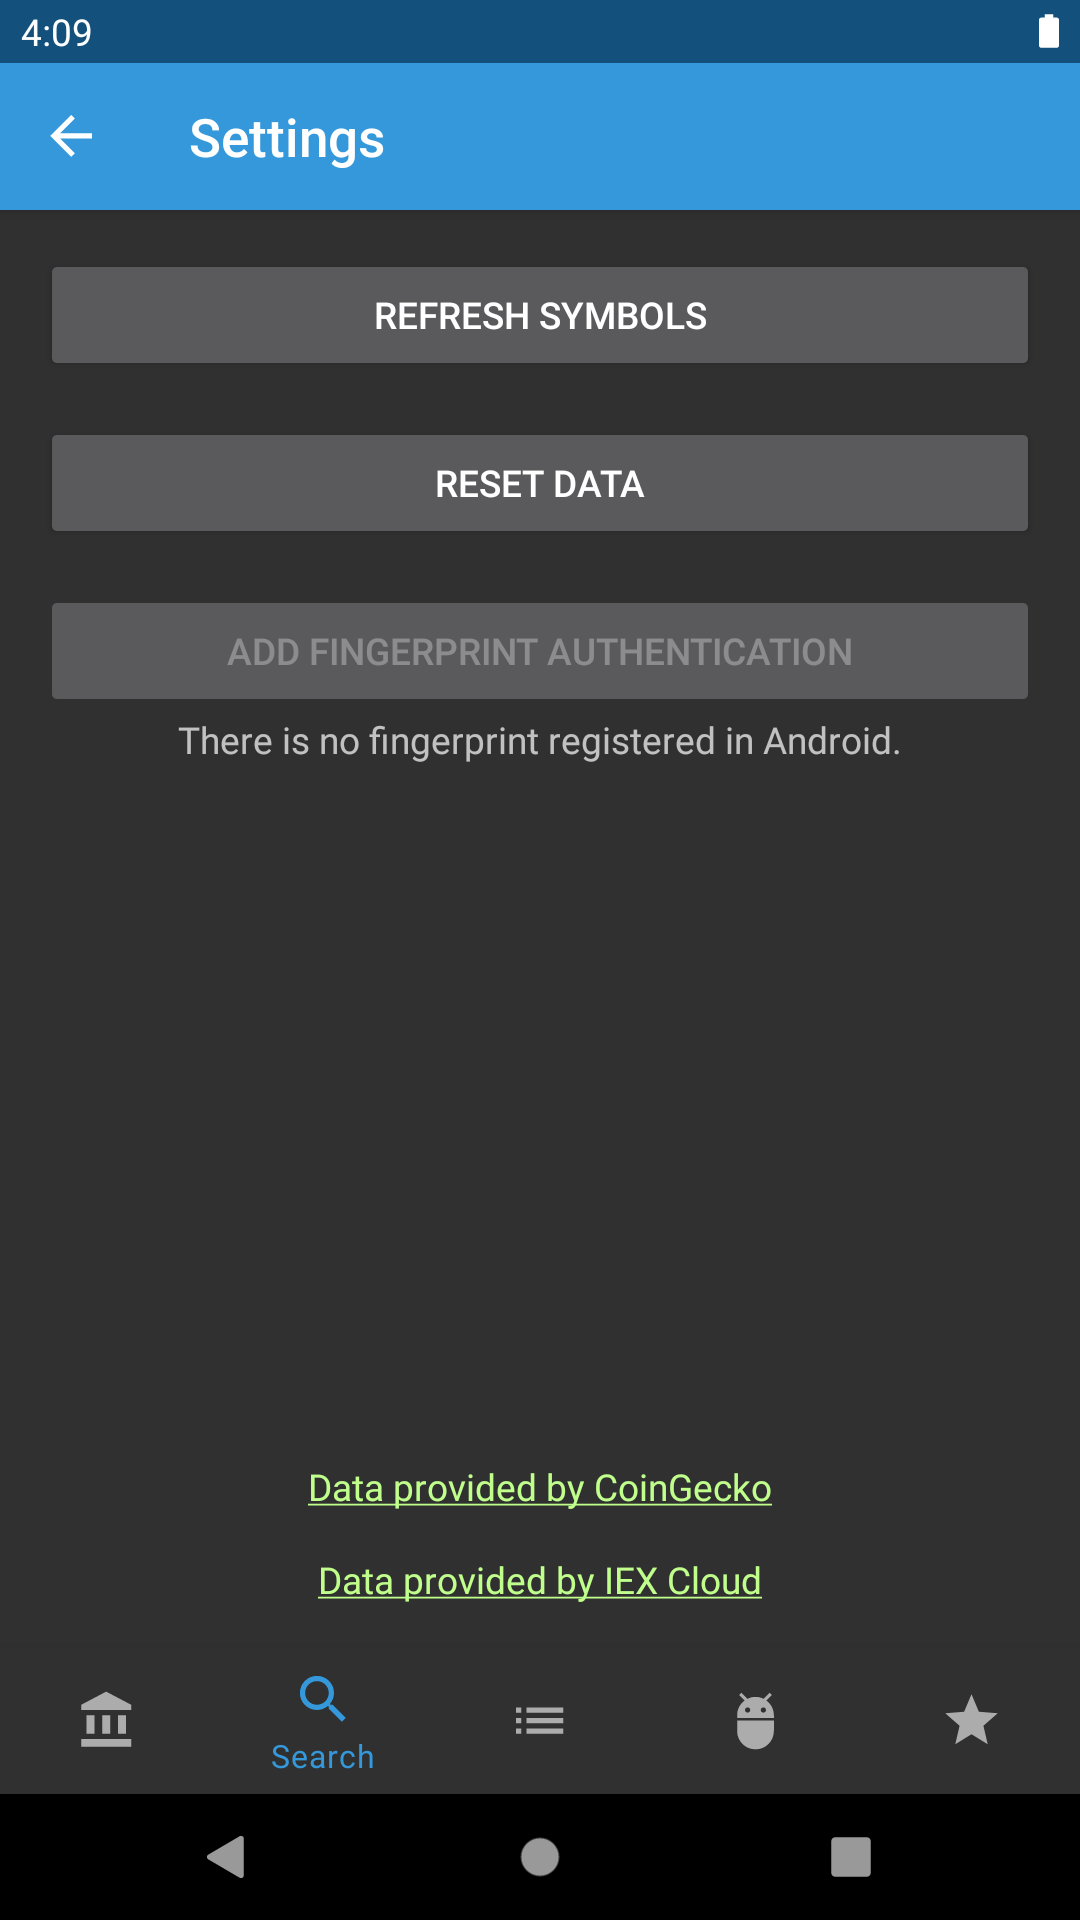
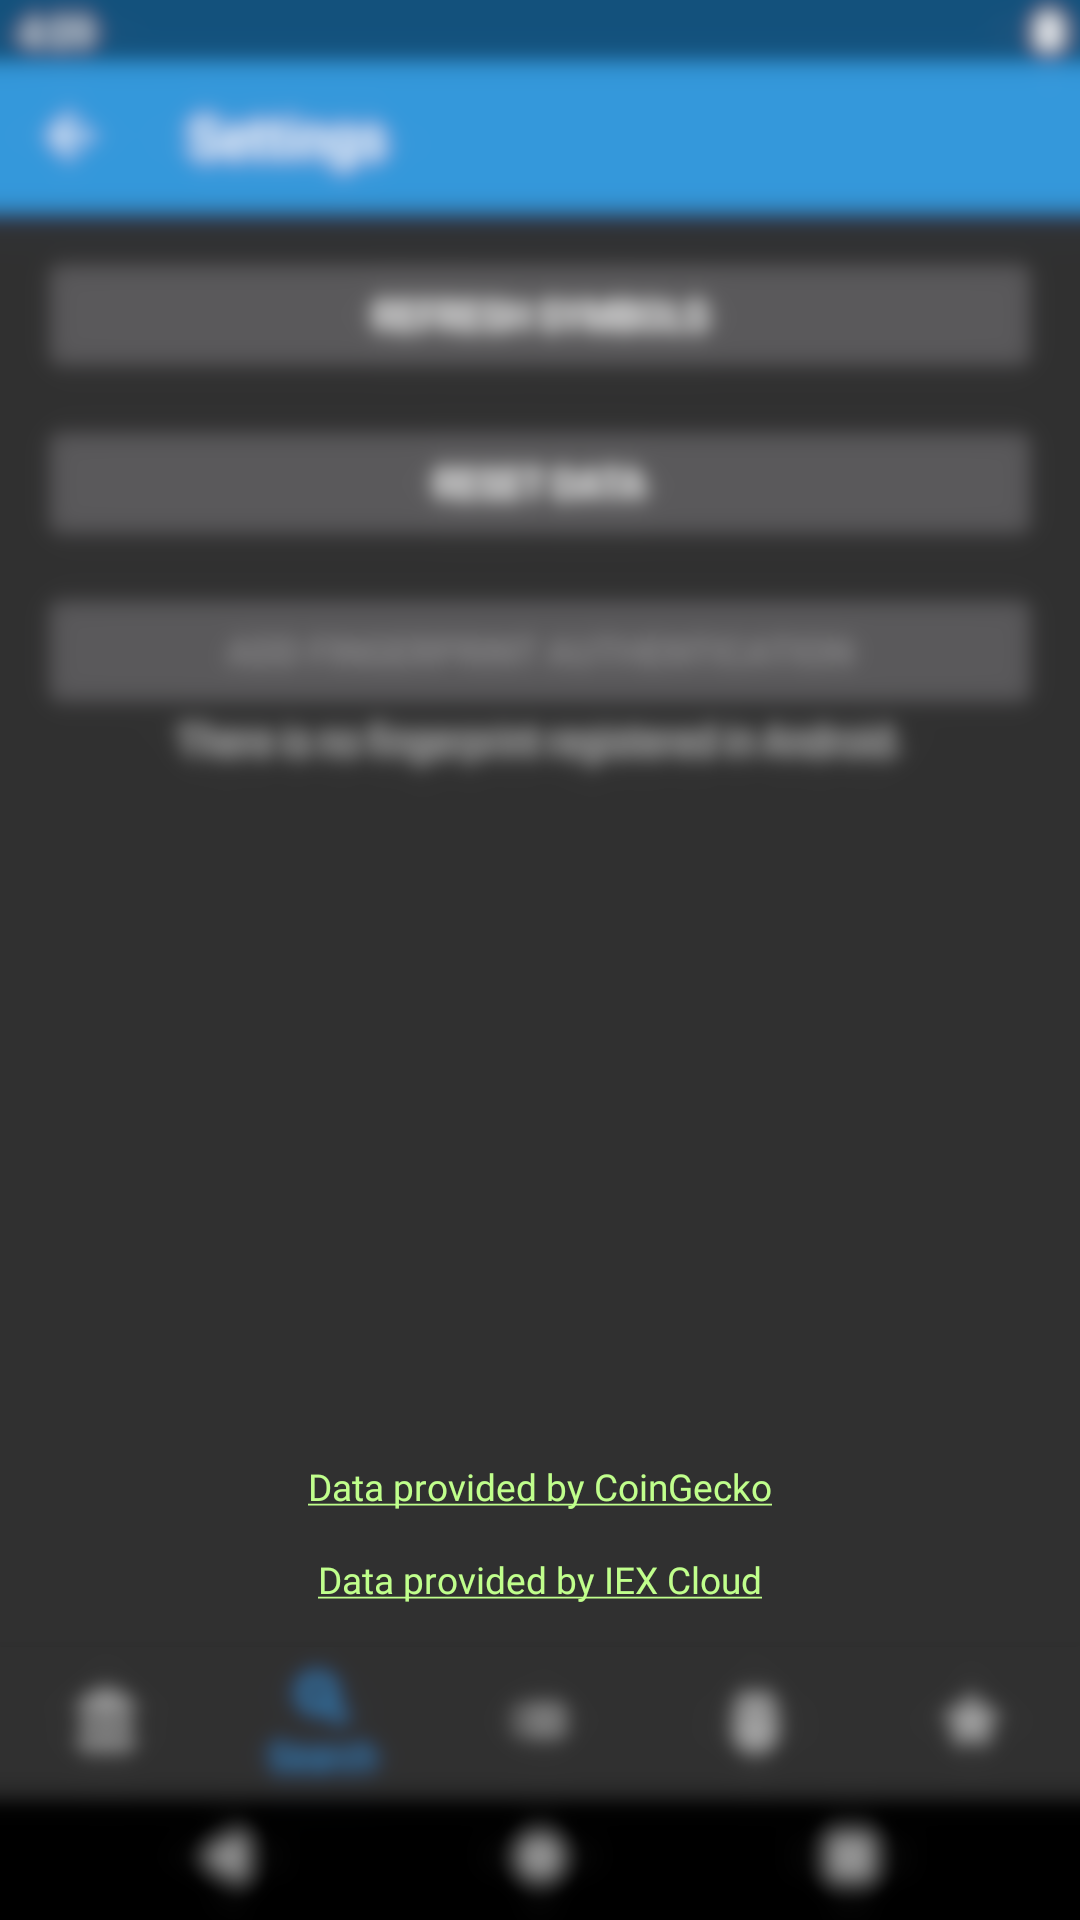
Blured settings images and minor changes

diff --git a/stock-simulator.tex b/stock-simulator.tex
@@ -141,6 +141,7 @@ Sie sind an die interne Datenbank (siehe \autoref{subsubsec:technologies:bibs:ro
 Um eine Simulation mit echten Kursdaten zu ermöglichen wurden zwei Schnittstellen angebunden.
 Sie verwenden unterschiedliche Datenstrukturen, weshalb separate Modelle implementiert wurden.
 Die API-spezifischen Antworten der Schnittstellen werden jedoch zu einem einheitlichen Datenmodell transformiert, so dass das Domänenmodell der App simpel und leichtgewichtig bleibt.
+Beide APIs erfordern Zuschreibungen, welche im Settings-Screen vorhanden sind (siehe \autoref{subsec:functionality:settings}).
 
 
 \subsubsection{CoinGecko}
@@ -151,15 +152,13 @@ Dazu zählen Symbol, Name und Wechselkurse.
 Bei letzteren wird nur auf den USD Wechselkurs zurückgegriffen.
 Darüber hinaus sind Marktdiagrammdaten verfügbar, die für Kursgraphen verwendet werden.
 
-Die Verwendung der \textit{CoinGecko} API erfordert eine Zuschreibung, welche im Settings-Screen vorhanden ist (siehe \autoref{subsec:functionality:settings}).
-
 \subsubsection{IEX Cloud}
 \label{subsubsec:technologies:apis:iex}
 % https://iexcloud.io/
 \textit{IEX Cloud}\footnote{Siehe \url{https://iexcloud.io/}} stellt allgemeine Finanzdaten zur Verfügung.
 Nicht alle Daten sind kostenlos zugänglich, weshalb nur Aktieninformationen über diese Schnittstelle bezogen werden.
 Analog zu \textit{CoinGecko} liefert \textit{IEX Cloud} Symbole, Namen, aktuelle Preise und Marktdiagrammdaten zu Aktien.
-Darüber hinaus besitzt \textit{IEX Cloud} Informationen über kurzfristige Änderungen von Aktienkursen und bietet Sammlungen von Neuigkeiten zu einzelnen Aktien.
+Des Weiteren besitzt \textit{IEX Cloud} Informationen über kurzfristige Änderungen von Aktienkursen und bietet Sammlungen von Neuigkeiten zu einzelnen Aktien.
 
 
 \subsection{Bibliotheken}
@@ -260,7 +259,7 @@ Im Folgenden wird die Funktionalität der App, nach Screens aufgeteilt, vorgeste
 Über die \textit{Bottom Navigation} \autocite{bottom_navigation} können Nutzer zwischen den Hauptfeatures Account, Suche, Transaktionsverlauf, Stockbrot und Errungenschaften wechseln (siehe \autoref{fig:functionality:navigation:bottom-navigation}).
 Diese Art der Navigation wurde gewählt, da sie modernen Designempfehlungen entspricht und bessere Kompatibilität mit Android 10 Gesten aufweist als beispielsweise ein \textit{Hamburger Menü}.
 
-Das Einstellungsmenü ist über das Zahnrad in der Toolbar von allen Screens, au"ser den Einstellungen selbst sowie den News, erreichbar (siehe \autoref{fig:functionality:navigation:settings}).
+Das Einstellungsmenü ist über das Zahnrad in der Toolbar aller Screens, au"ser den Einstellungen selbst, erreichbar (siehe \autoref{fig:functionality:navigation:settings}).
 
 Weitere Navigation, wie zu den News oder zur Detailansicht eines Anlageguts, ist über Bedienelemente in Form von Buttons an entsprechenden Stellen möglich.
 
@@ -433,22 +432,30 @@ TODO
 \subsection{Einstellungen}
 \label{subsec:functionality:settings}
 Der \textit{Settings-Screen} beinhaltet Optionen zum Zurücksetzen von Spieldaten, Aktualisieren der verfügbaren Anlagegüter sowie Hinzufügen und Entfernen einer Fingerabdruck-Sperre.
-Wie in \autoref{fig:functionality:settings:full} zu sehen sind Buttons der zuvor beschriebenen Optionen vertikal angeordnet.
+Wie in \autoref{fig:functionality:settings:buttons} zu sehen sind Buttons der zuvor beschriebenen Optionen vertikal angeordnet.
 Der Button zum Hinzufügen und Entfernen einer Fingerabdruck-Sperre ist zudem deaktiviert, falls dies nicht möglich ist.
 Ein Informationstext unter diesem Button wei"st Nutzer auf den Zustand hin.
 
-Am unteren Ende des Screens befinden sich die notwendigen Zuschreibungen an die verwendeten Schnittstellen (siehe \autoref{subsec:technologies:apis}).
+Am unteren Ende des Screens (siehe \autoref{fig:functionality:settings:attributions}) befinden sich die notwendigen Zuschreibungen an die verwendeten Schnittstellen (siehe \autoref{subsec:technologies:apis}).
 Durch Klicken auf einen der Links werden Nutzer zur Website der jeweiligen Schnittstelle weitergeleitet.
 
 %TODO Snackbars "demonstrieren"
 
-%TODO Bilder blurren
-
 \begin{figure}[H]
-	\centering
-	\includegraphics[height=7cm,keepaspectratio]{./images/settings/layout.png}
+	\begin{subfigure}{.5\textwidth}
+		\centering
+		\includegraphics[height=8cm,keepaspectratio]{./images/settings/buttons.png}
+		\caption{Optionen}
+		\label{fig:functionality:settings:buttons}
+	\end{subfigure}
+	\begin{subfigure}{.5\textwidth}
+		\centering
+		\includegraphics[height=8cm,keepaspectratio]{./images/settings/attribution.png}
+		\caption{Zuschreibungen}
+		\label{fig:functionality:settings:attributions}
+	\end{subfigure}
 	\caption{Einstellungen}
-	\label{fig:functionality:settings:full}
+	\label{fig:functionality:settings}
 \end{figure}
 
 
